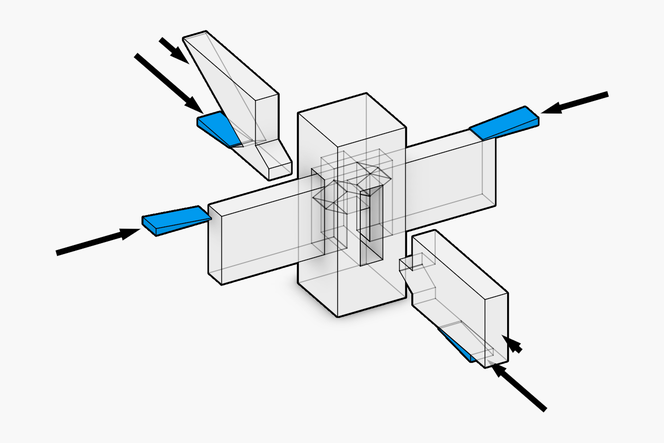
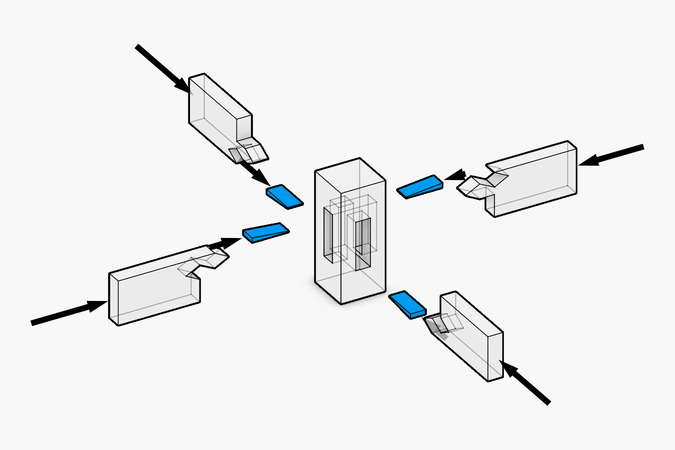
Joint library: p. 744's second pair cut on the right sides (the upside-down B and C had their above and below swapped twice); the gallery draws apart a member the sequence cannot take out alone, along the way its record gives it

Changed region(s): [[0.0301, 0.0587, 0.9639, 0.9391], [0.4819, 0.2054, 0.6024, 0.2641]]

diff --git a/examples/elements/element_joint_beam_library.cpp b/examples/elements/element_joint_beam_library.cpp
@@ -57,8 +57,15 @@ int main() {
             const LibraryRecord record = library_record(design);
             const size_t base = record.fields.count("base") ? static_cast<size_t>(record.fields.at("base")[0] - 'a') : 1;
             const AssemblySequence sequence(apart, fresh[base]->name);
-            for (size_t j = 1; j < sequence.steps().size(); j++) {
-                const AssemblyStep& step = sequence.steps()[j];
+            // a member the sequence cannot take out on its own (a pair hooked together outside the post) is still drawn apart,
+            // along the way its record gives it
+            std::vector<AssemblyStep> steps = sequence.steps();
+            for (const std::string& locked : sequence.locked())
+                for (size_t m = 0; m < fresh.size(); m++)
+                    if (fresh[m]->name == locked && !twin->insertion_directions(m).empty())
+                        steps.push_back({locked, twin->insertion_directions(m)[0], twin->insertion_legs(m, 0), {}, {}});
+            for (size_t j = 1; j < steps.size(); j++) {
+                const AssemblyStep& step = steps[j];
                 const std::shared_ptr<Element> drawn = scene.get_element_by_name<Element>(name + step.element.substr(design.size()));
                 if (!drawn)
                     continue;
